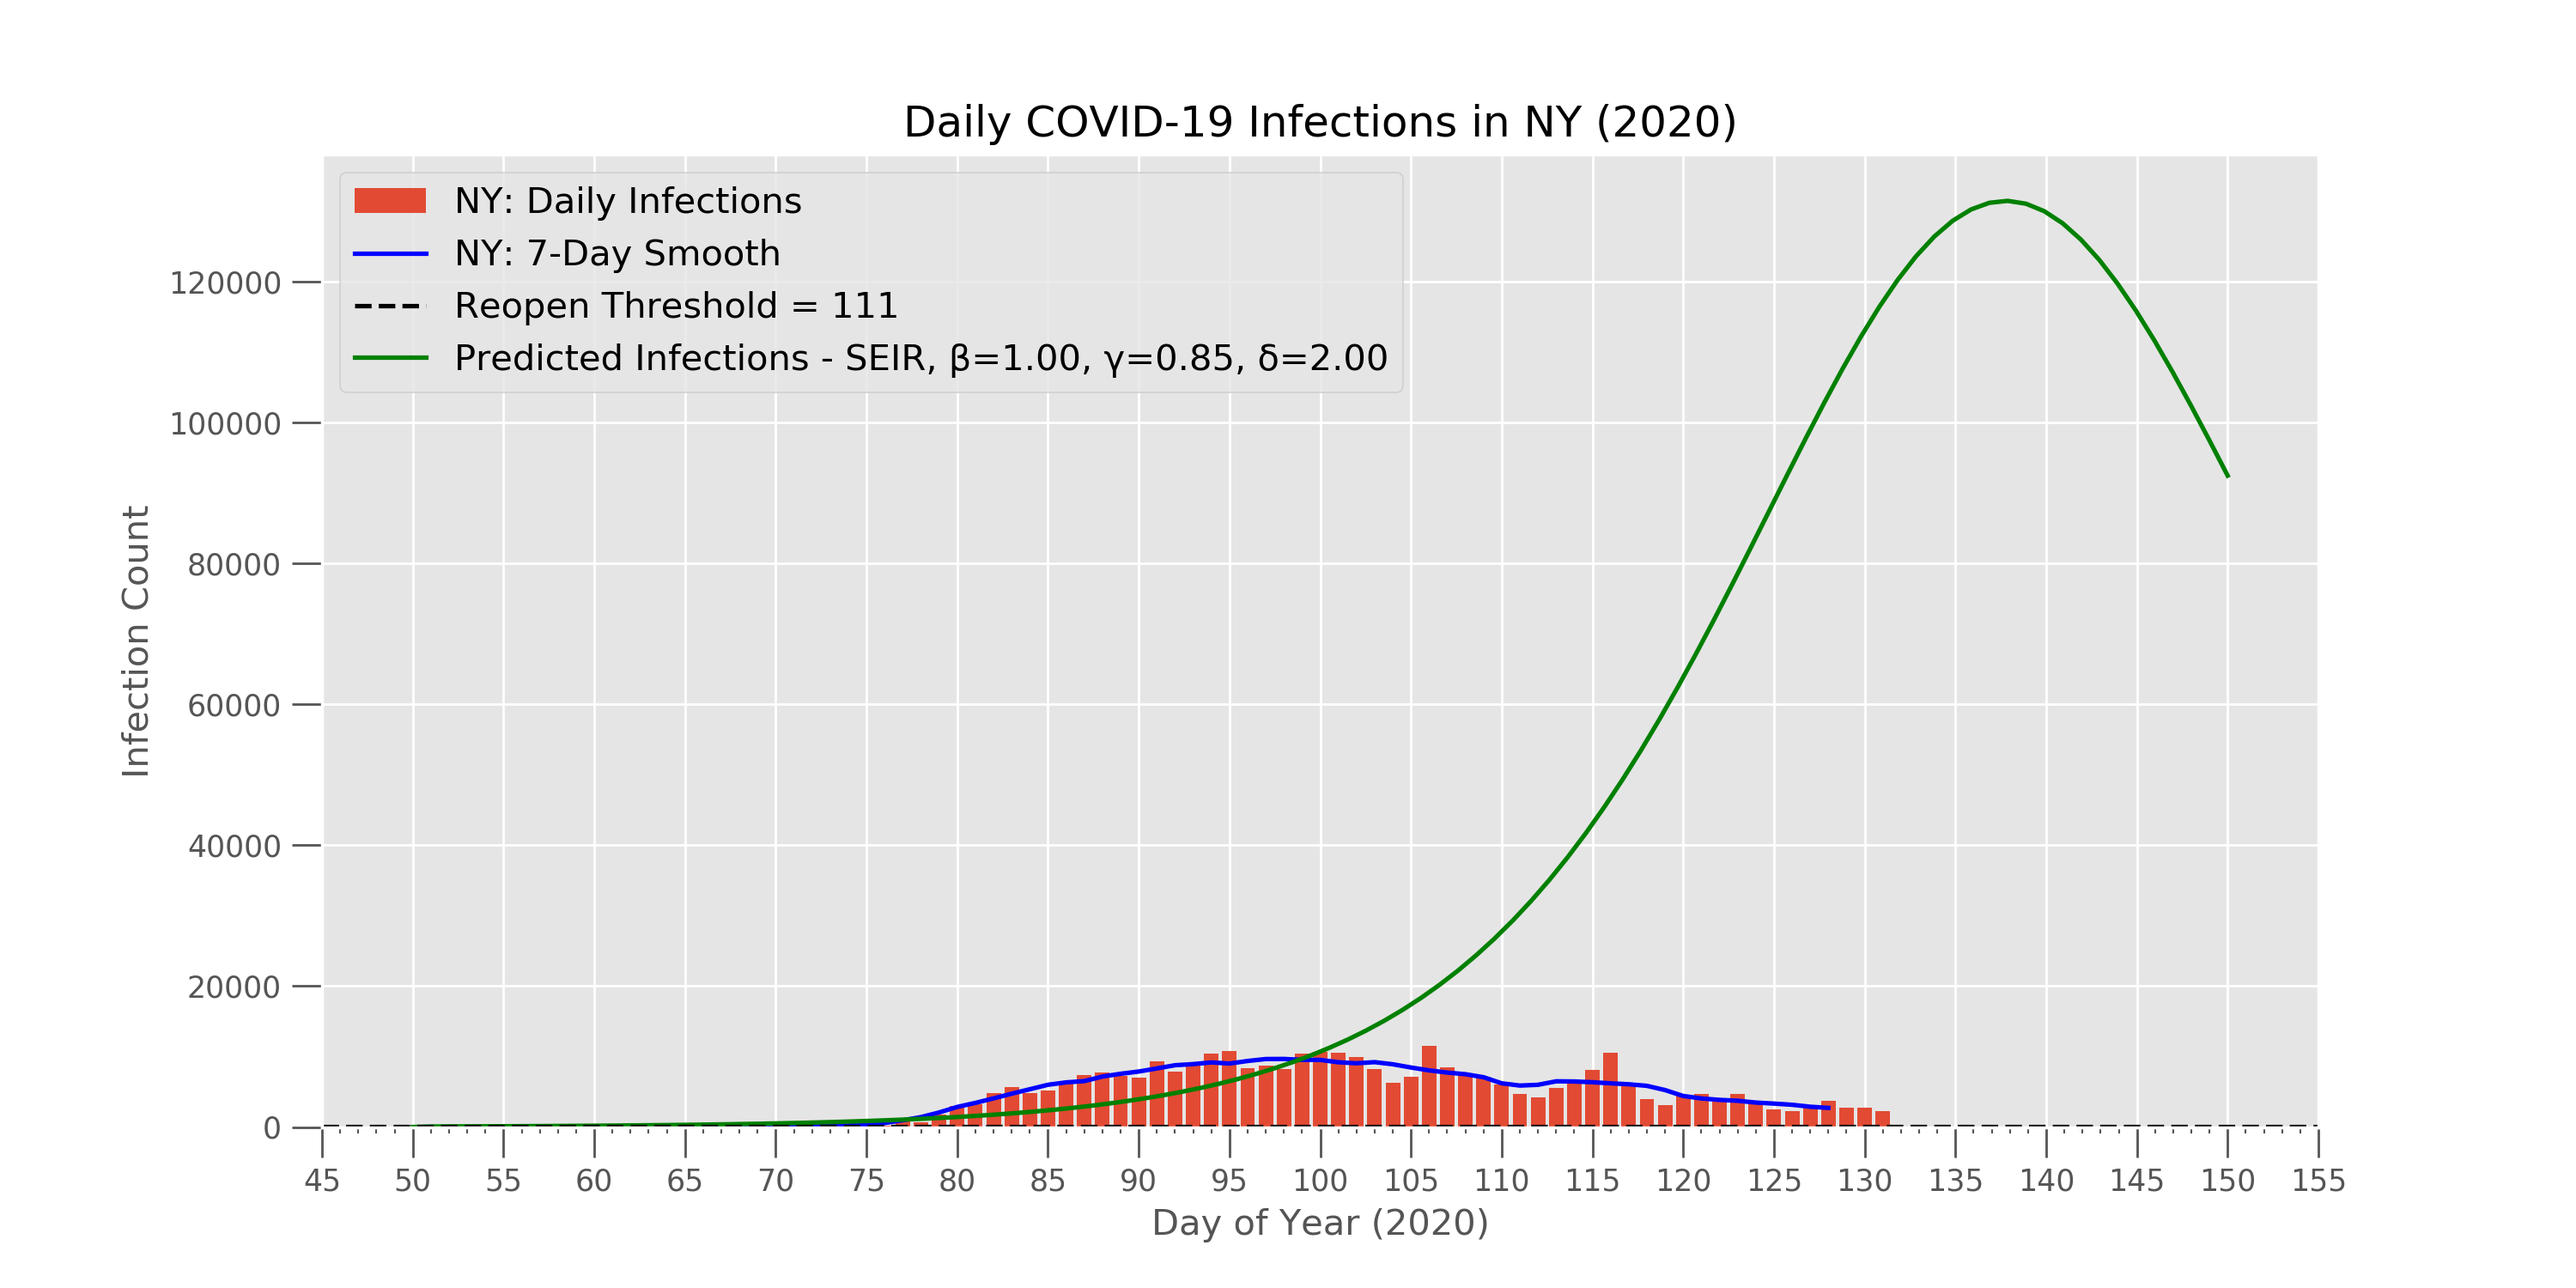
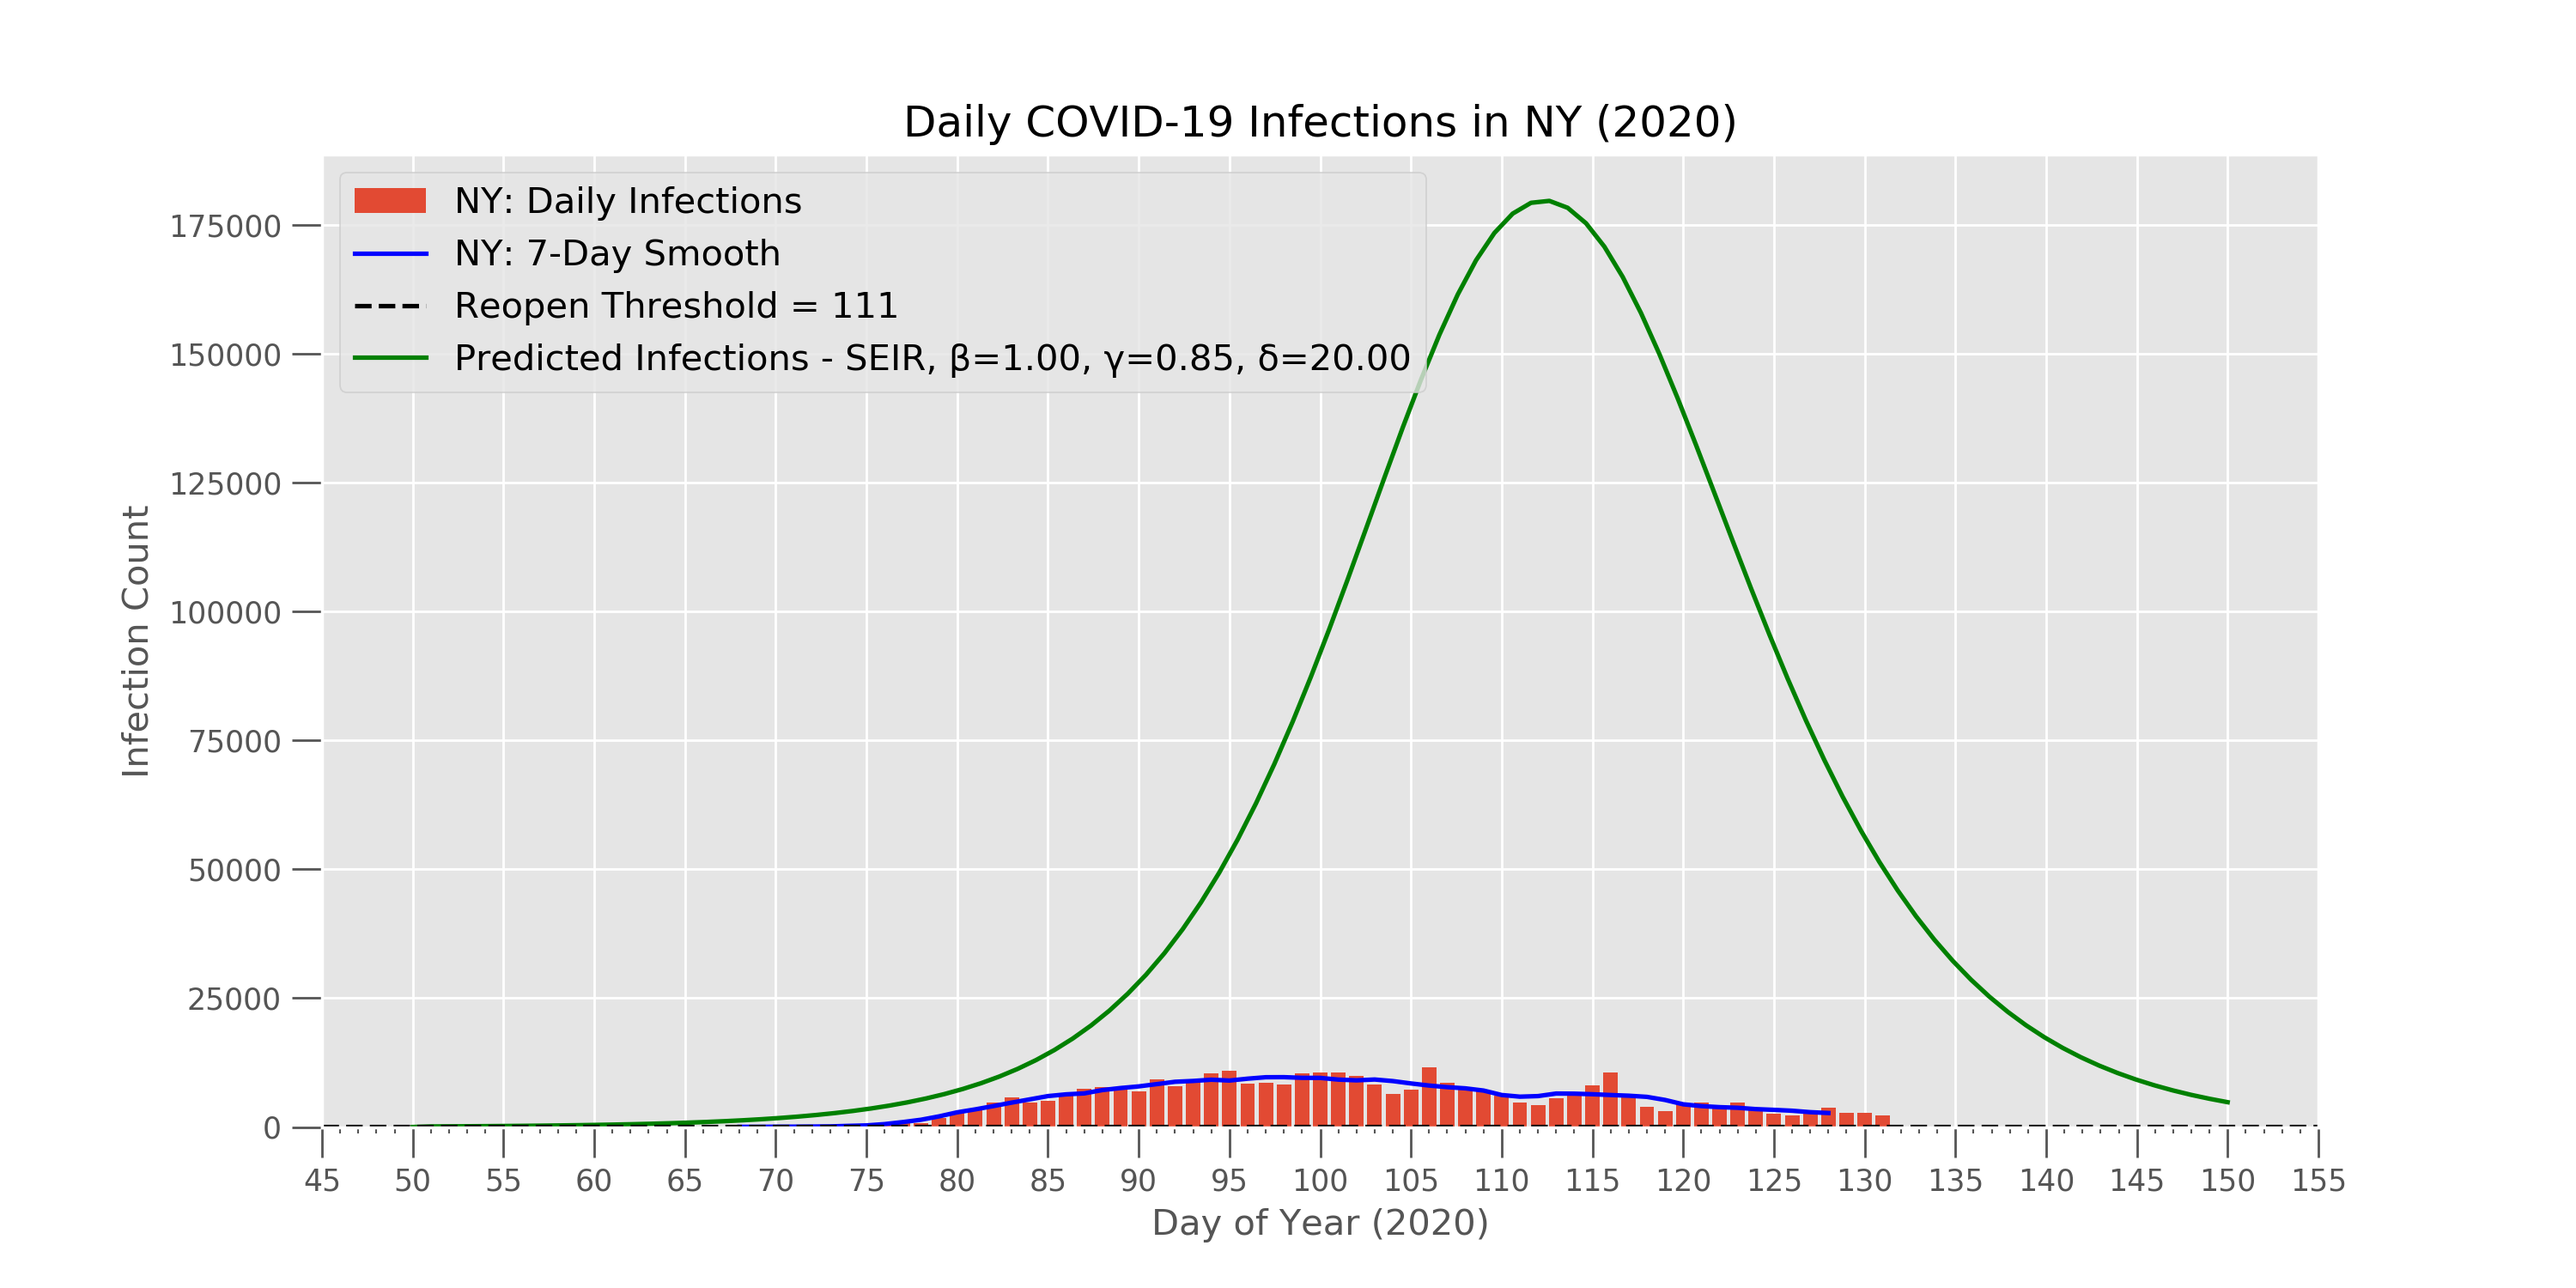
readme updates

diff --git a/src/infection_rates.py b/src/infection_rates.py
@@ -17,16 +17,66 @@ plt.rcParams.update({'font.size': font_size})
 # CDC guideline threshold of 10 reported infections per 100k pop every 14 days
 reopen_thresh = 10./100000/14
 
-class StateInfections():
-    
-    def __init__(self):
-        pass
+num_days_smooth = 7
 
+states = ['NY', 'FL', 'CA']
+# states = ['NY']
+states_pop = [df_usa_pop.loc[df_usa_pop['ABBR'] == states[i],['POPEST18PLUS2019']].iloc[0,0] for i in range(len(states))]
+state_reopen_thresh = [math.ceil(x * reopen_thresh) for x in states_pop]
+state_reopen_thresh
 
-    
+N = states_pop[0]
+# infected person infects 1 other person per day
+beta = 0.999 
+# infections last D days
+D = 1.18 
+gamma = 1.0 / D
+# incubation period of 1/delta days
+delta = 1.0 / 0.5 
+
+E0 = 100
+S0, I0, R0 = N-E0, 0, 0
+
+t = np.linspace(50,150,100)
+# Initial conditions vector
+y0 = S0, E0, I0, R0
+# Integrate the SIR equations over the time grid, t.
+ret = odeint(deriv_seir, y0, t, args=(N, beta, gamma, delta))
+S, E, I, R = ret.T
+
+def deriv_seir(y, t, N, beta, gamma, delta):
+    S, E, I, R = y
+    dSdt = -beta * S * I / N
+    dEdt = beta * S * I / N - delta * E
+    dIdt = delta * E - gamma * I
+    dRdt = gamma * I
+    return dSdt, dEdt, dIdt, dRdt
+
+fig, ax = plt.subplots(figsize = (12,6))
+for state in states:
+    plt.bar(df2.d_o_y, df2['positive_daily_incr'], label = f"{state}: Daily Infections")
+    plt.plot(df2.d_o_y, df2['Rolling-{num_days_smooth}mean'], label = f"{state}: {num_days_smooth}-Day Smooth", color='blue')
+    plt.plot(t, I, label = f'Predicted Infections - SEIR, β={beta:.2f}, γ={gamma:.2f}, δ={delta:.2f}', color = 'green')
+    ax.axhline(state_reopen_thresh[0], color = 'black', ls="--", label = f"Reopen Threshold = {state_reopen_thresh[0]}")
+# ax.set_yscale('log')
+ax.xaxis.set_major_locator(MultipleLocator(5))
+ax.xaxis.set_major_formatter(FormatStrFormatter('%d'))
+# For the minor ticks, use no labels; default NullFormatter.
+ax.xaxis.set_minor_locator(MultipleLocator(1))
+ax.tick_params(direction='out', length=10)
+ax.set_xlabel('Day of Year (2020)')
+ax.set_ylabel('Infection Count')
+# ax.set_yscale('log')
+plt.title(f'Daily COVID-19 Infections in {state} (2020)')
+handles, labels = plt.gca().get_legend_handles_labels()
+order = [3,0,2,1]
+plt.legend([handles[idx] for idx in order],[labels[idx] for idx in order], fontsize=12,loc='upper left')
+plt.show();
+fig.savefig('../images/seir_fit_to_NY_infections-01.png', dpi=250)
+
 
 def plot_infection_trends(state_list, metric = 'infection'):
-    num_days_smooth = 7
+    
     metric_dict = {'infection' : ['positive_daily_incr', 'Infections', 'Infection Counts', 'infection_counts'],
                    'hospitalized' : ['hospitalized_daily_incr', 'Hospitializations', 'Hospitializations', 'hospitializations'],
                    'death' : ['death_daily_incr', 'Deaths', 'Deaths', 'deaths']}
@@ -69,30 +119,6 @@ def plot_infection_trends(state_list, metric = 'infection'):
     states_str = "-".join(state_list)
     fig.savefig(f"../images/{metric_dict[metric][3]}_by_doy_smoothed_thresh-{states_str}.png", dpi=250)
 
-def dummy_def():
-    states = ['NY']
-    num_days = 7
-    df2 = df_usa[df_usa['state_id'].isin(states)]
-    df2['Rolling-{num_days}mean'] = df2['positive_daily_incr'].rolling(window=num_days, center = True).mean()
-    fig, ax = plt.subplots(figsize = (12,6))
-    for state in states:
-        plt.bar(df2.d_o_y, df2['positive_daily_incr'], label = f"{state}: Daily Infections")
-        plt.plot(df2.d_o_y, df2['Rolling-{num_days}mean'], label = f"{state}: {num_days}-Day Smooth", color='blue')
-        
-        ax.axhline(state_reopen_thresh[0], color = 'black', ls="--", label = f"Reopen Threshold = {state_reopen_thresh[0]}")
-    
-    ax.xaxis.set_major_locator(MultipleLocator(5))
-    ax.xaxis.set_major_formatter(FormatStrFormatter('%d'))
-    # For the minor ticks, use no labels; default NullFormatter.
-    ax.xaxis.set_minor_locator(MultipleLocator(1))
-    ax.tick_params(direction='out', length=10)
-    ax.set_xlabel('Day of Year (2020)')
-    ax.set_ylabel('Infection Count')
-    plt.title(f'Daily COVID-19 Infections in {state} (2020)')
-    handles, labels = plt.gca().get_legend_handles_labels()
-    order = [2,0,1]
-    plt.legend([handles[idx] for idx in order],[labels[idx] for idx in order], fontsize=12,loc='upper left')
-    plt.show();
 
 def open_merge_files(infection_file_path, df_population):
     df_usa_rates = pd.read_csv(infection_file_path)

diff --git a/README.md b/README.md
@@ -94,13 +94,12 @@ Additionally, the target line of "0.71 infections / 100,000 population / day" (=
  
  and individuals transition from one state to another following a system of differential equations.
 
- Generic SIR Model Flow:
-<div style="text-align:center"><img src="images/SIR_flow_diagram.png" /></div>
+ **Generic SIR Model Flow:**
 <p align="center">
   <img width="727" height="130" src="images/SIR_flow_diagram.png">
 </p>
 
-Where the state transitions are
+Where the state transitions are given by:
 <p align="center">
   <img width="530" height="88" src="images/compartmental_state_change_key.png">
 </p>
@@ -139,17 +138,26 @@ Equations for an SEIR Model:
 - This SIR/SEIR model assumes immunity upon recovery - this may be true with COVID-19, or true for a short time period, but has yet to be confirmed.  An SEIDS (or SEIRD, SEICDS, SEIRCDS, etc.!) may ultimately be a better approximation of the underlying situation.
 - ...there are likely many others
 
-## Sample fits
+## Models and Fits
+
+The SEIR base model with population N=1000.
 
 <div style="text-align:center"><img src="images/generic_seir_trends.png" /></div>
 
+SEIR model - Infections and NY Infection data - "literature parameters"
+
+<div style="text-align:center"><img src="images/seir_fit_to_NY_infections-02.png" /></div>
+
+SEIR model - Infections and NY Infection data - "closest overlay; nonsense parameters"
 
 <div style="text-align:center"><img src="images/seir_fit_to_NY_infections-01.png" /></div>
 
+There is no fitting function in the code to attempt to fit the model to the data. This model doesn't give a good enough fit to the data to predict any usable date for answering the intial question.  The the three rate parameters are adjusted.
 
 ## Next Steps
 - The SEIR model used to try to fit the data was overly simplistic given the expected lack of full reporting of infected persons (low test prevalence).
-- The model also didn't break out deaths from recovered.
+- The x-axis is in day of year to allow offsetting the onset of infection in a region more easily - this needs to be enabled.
+- The SEIR model also doesn't split out deaths from recovered - this would be useful to aiding in the next point.
 - It was recommended by a contact in the epidemiological world to instead model deaths, and to use a MLE fit on a Poisson distribution.
 
 
